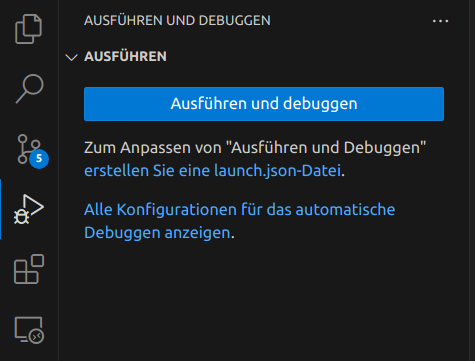
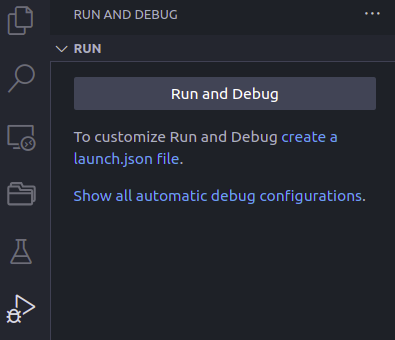
add hw for lesson 12, change example paths and change images to english vscode

diff --git a/lessons/beginners-en/debugging/index.md b/lessons/beginners-en/debugging/index.md
@@ -197,11 +197,11 @@ When we run it normally we get this result:
 ```bash
 $ python test.py
 Traceback (most recent call last):
-  File "/home/fabian/pyladies/naucse.python.cz/lessons/beginners-en/debugging/test.py", line 10, in <module>
+  File "test.py", line 10, in <module>
     myfunc(1)
-  File "/home/fabian/pyladies/naucse.python.cz/lessons/beginners-en/debugging/test.py", line 3, in myfunc
+  File "test.py", line 3, in myfunc
     myinnerfunc(myarg - 1)
-  File "/home/fabian/pyladies/naucse.python.cz/lessons/beginners-en/debugging/test.py", line 7, in myinnerfunc
+  File "test.py", line 7, in myinnerfunc
     return 1 / innerarg
 ZeroDivisionError: division by zero
 ```
@@ -210,7 +210,7 @@ We now want to debug the file by using PDB:
 
 ```bash
 $ python -m pdb test.py
-> /home/fabian/pyladies/naucse.python.cz/lessons/beginners-en/debugging/test.py(1)<module>()
+> test.py(1)<module>()
 -> def myfunc(myarg):
 (Pdb)
 ```
@@ -277,13 +277,13 @@ The following commands are important for us in the beginning:
 We now want to debug our function, so we set a breakpoint in our inner function:
 ```
 (Pdb) b myinnerfunc
-Breakpoint 1 at /home/fabian/pyladies/naucse.python.cz/lessons/beginners-en/debugging/test.py:6
+Breakpoint 1 at test.py:6
 ```
 
 We can now start the program, it will stop at our `myinnerfunc`:
 ```
 (Pdb) c
-> /home/fabian/pyladies/naucse.python.cz/lessons/beginners-en/debugging/test.py(7)myinnerfunc()
+> test.py(7)myinnerfunc()
 -> return 1 / innerarg
 ```
 
@@ -294,11 +294,11 @@ We can now check where we currently are in our programs call stack:
   /usr/lib/python3.10/bdb.py(598)run()
 -> exec(cmd, globals, locals)
   <string>(1)<module>()
-  /home/fabian/pyladies/naucse.python.cz/lessons/beginners-en/debugging/test.py(10)<module>()
+  test.py(10)<module>()
 -> myfunc(1)
-  /home/fabian/pyladies/naucse.python.cz/lessons/beginners-en/debugging/test.py(2)myfunc()
+  test.py(2)myfunc()
 -> myinnerfunc(myarg)
-> /home/fabian/pyladies/naucse.python.cz/lessons/beginners-en/debugging/test.py(7)myinnerfunc()
+> test.py(7)myinnerfunc()
 -> return 1 / innerarg
 ```
 
@@ -314,7 +314,7 @@ function:
 
 ```
 (Pdb) up
-> /home/fabian/pyladies/naucse.python.cz/lessons/beginners-en/debugging/test.py(2)myfunc()
+> test.py(2)myfunc()
 -> myinnerfunc(myarg)
 ```
 
@@ -342,7 +342,7 @@ We can then move _down_ the call stack again:
 
 ```
 (Pdb) d
-> /home/fabian/pyladies/naucse.python.cz/lessons/beginners-en/debugging/test.py(7)myinnerfunc()
+> test.py(7)myinnerfunc()
 -> return 1 / innerarg
 ```
 
@@ -354,7 +354,7 @@ returned (`->1.0`), and we can also see that we returned to the upper function
 ```
 (Pdb) n
 --Return--
-> /home/fabian/pyladies/naucse.python.cz/lessons/beginners-en/debugging/test.py(7)myinnerfunc()->1.0
+> test.py(7)myinnerfunc()->1.0
 -> return 1 / innerarg
 (Pdb) l
   1     def myfunc(myarg):
@@ -377,7 +377,7 @@ the variables again:
 
 ```
 (Pdb) c
-> /home/fabian/pyladies/naucse.python.cz/lessons/beginners-en/debugging/test.py(7)myinnerfunc()
+> test.py(7)myinnerfunc()
 -> return 1 / innerarg
 (Pdb) innerarg
 0
@@ -397,7 +397,7 @@ returned:
 ```
 (Pdb) n
 --Return--
-> /home/fabian/pyladies/naucse.python.cz/lessons/beginners-en/debugging/test.py(7)myinnerfunc()->0.1
+> test.py(7)myinnerfunc()->0.1
 -> return 1 / innerarg
 ```
 
@@ -447,7 +447,7 @@ the code:
 
 {{ figure( img=static('controls.png'), alt='The debugging controls', ) }}
 
-The blue riangle allows to continue to the next breakpoint (same as
+The blue triangle allows to continue to the next breakpoint (same as
 `c(continue)` in PDB). The arrow above the point executes the next line, but
 does not step into a function (same as `n(ext)`). The arrow down to the point
 makes the next step, but also steps into a function (same as `s(tep)`), whereas
